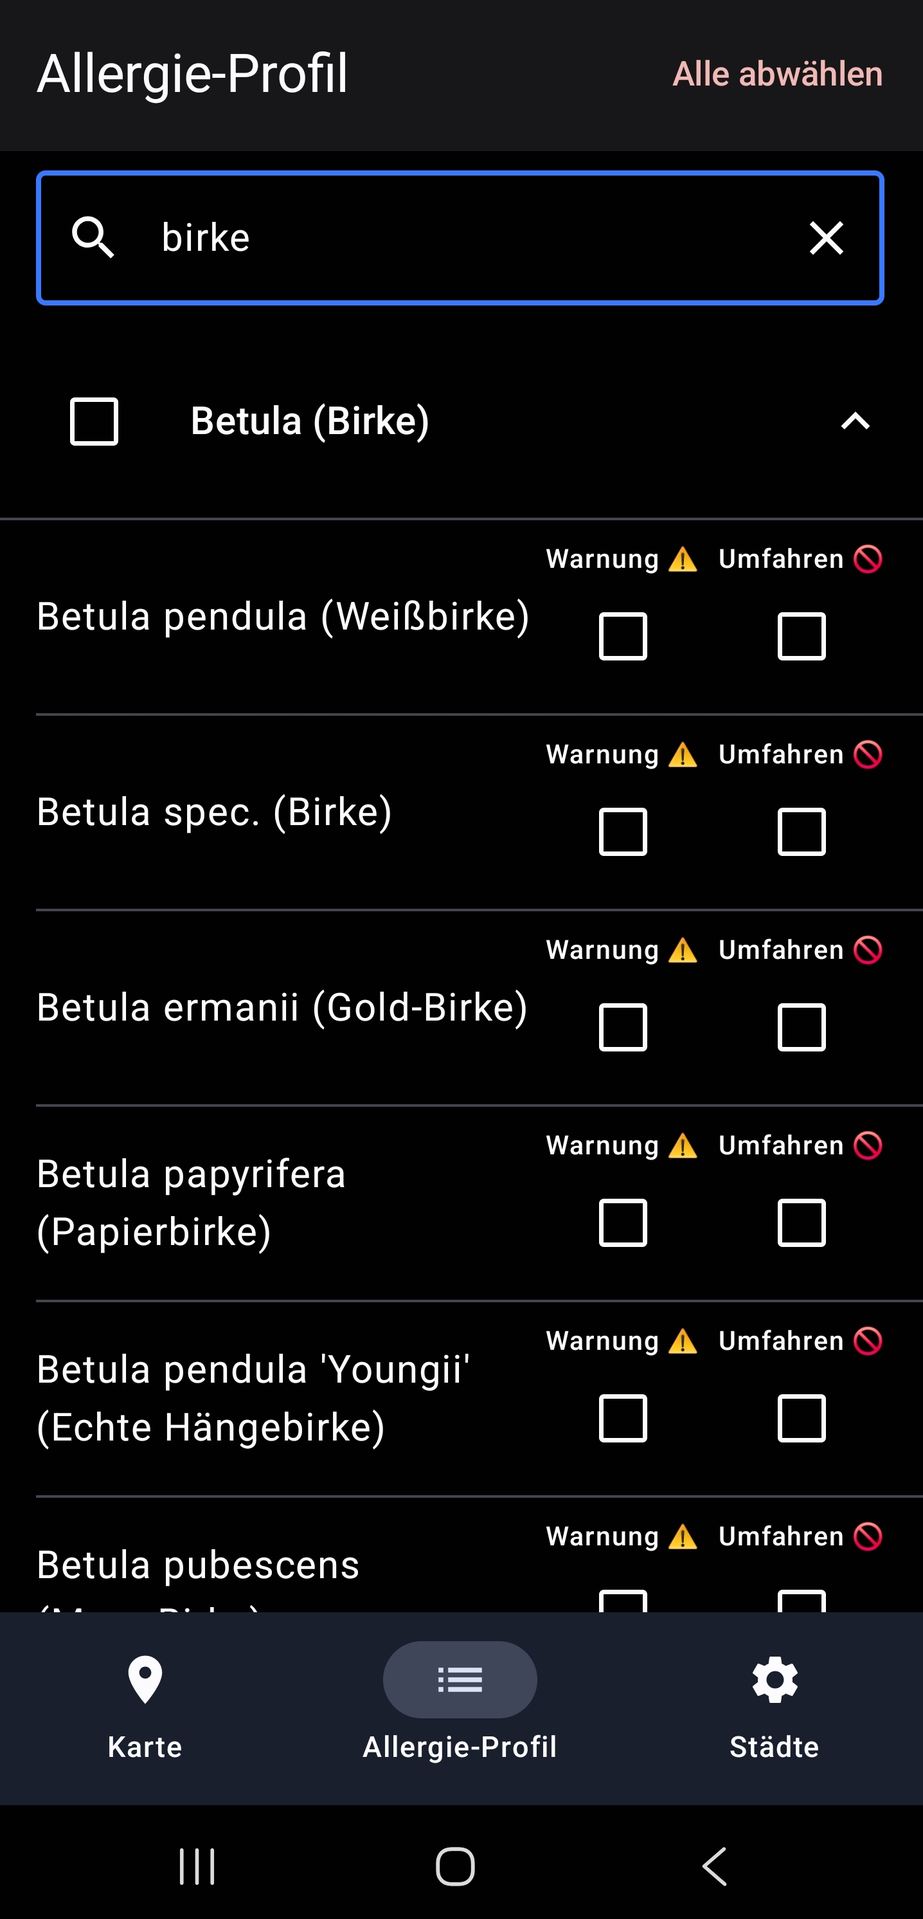
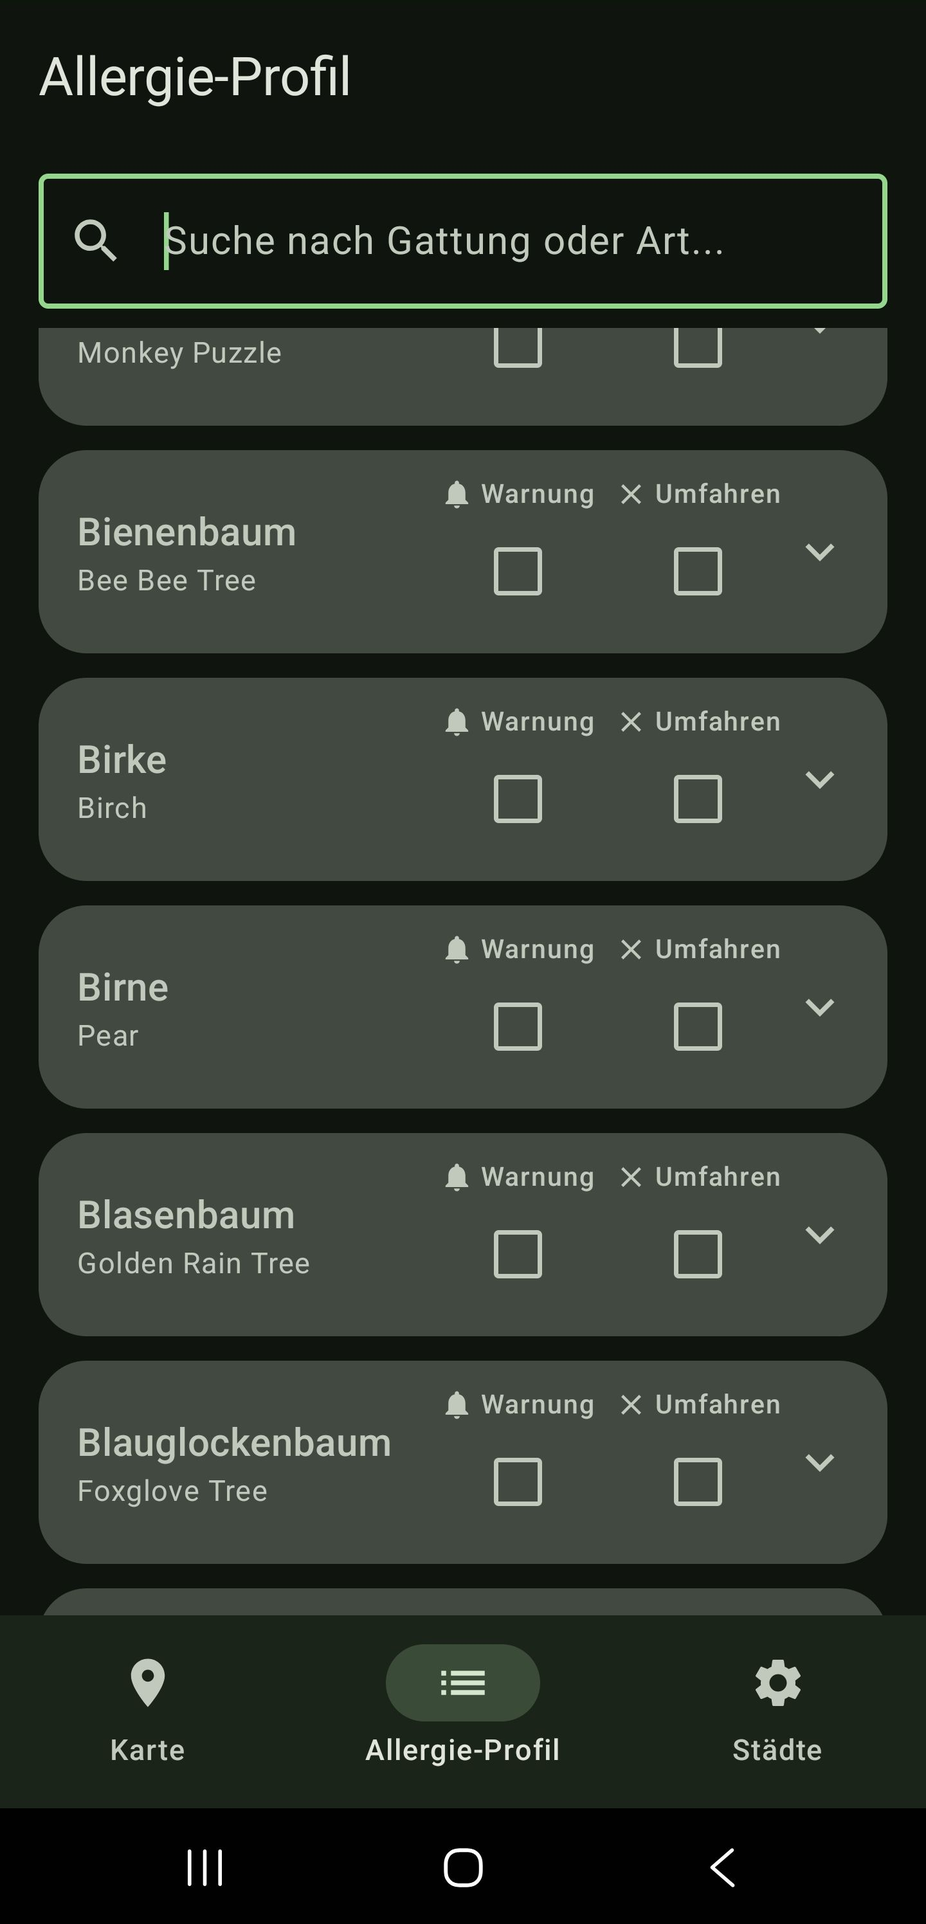
Improvements to the user interface. Updating the documentation.

diff --git a/app/src/main/java/at/mafue/baumradar/app/ui/MapArScreen.kt b/app/src/main/java/at/mafue/baumradar/app/ui/MapArScreen.kt
@@ -21,6 +21,11 @@ import androidx.compose.foundation.layout.navigationBarsPadding
 import androidx.compose.foundation.horizontalScroll
 import androidx.compose.foundation.rememberScrollState
 import androidx.compose.foundation.shape.RoundedCornerShape
+import androidx.compose.animation.AnimatedVisibility
+import androidx.compose.animation.fadeIn
+import androidx.compose.animation.fadeOut
+import androidx.compose.animation.expandHorizontally
+import androidx.compose.animation.shrinkHorizontally
 import androidx.compose.material.icons.Icons
 import androidx.compose.material.icons.filled.Search
 import androidx.compose.material.icons.filled.Place
@@ -53,7 +58,6 @@ import androidx.lifecycle.ViewModel
 import androidx.lifecycle.ViewModelProvider
 import androidx.lifecycle.viewmodel.compose.viewModel
 import kotlinx.coroutines.delay
-import kotlinx.coroutines.launch
 import org.osmdroid.config.Configuration
 import org.osmdroid.events.MapEventsReceiver
 import org.osmdroid.util.GeoPoint
@@ -170,8 +174,17 @@ fun MapArScreen() {
 
     val isMapLoading by viewModel.isMapLoading.collectAsState()
     val isExplorationMode by viewModel.isExplorationMode.collectAsState()
-    val snackbarHostState = remember { SnackbarHostState() }
-    val coroutineScope = rememberCoroutineScope()
+    // Kurzer Bestätigungs-Hinweis links neben dem Allergiezonen-Button (statt breiter Snackbar,
+    // die den Button verdeckte). Erscheint ~2,5 s und braucht nur die Breite des Textes.
+    var geofenceHintText by remember { mutableStateOf("") }
+    var geofenceHintVisible by remember { mutableStateOf(false) }
+    var geofenceHintToken by remember { mutableStateOf(0) }
+    LaunchedEffect(geofenceHintToken) {
+        if (geofenceHintToken > 0) {
+            delay(2500)
+            geofenceHintVisible = false
+        }
+    }
     var showRouteSheet by remember { mutableStateOf(false) }
 
     if (permissionGranted) {
@@ -228,17 +241,36 @@ fun MapArScreen() {
                         viewModel.triggerRecenter()
                     }
 
-                    // Allergiezonen ein-/ausblenden (grün = aktiv)
+                    // Allergiezonen ein-/ausblenden (grün = aktiv). Die Bestätigung erscheint als
+                    // kompakter Hinweis links neben dem Button und verdeckt ihn nicht.
                     val showAllGeofences by viewModel.showAllGeofences.collectAsState()
-                    MapToolFab(Icons.Default.Warning, "Allergiezonen anzeigen", active = showAllGeofences) {
-                        val newState = !showAllGeofences
-                        viewModel.showAllGeofences.value = newState
-                        coroutineScope.launch {
-                            snackbarHostState.currentSnackbarData?.dismiss()
-                            snackbarHostState.showSnackbar(
-                                message = if (newState) "Allergiezonen eingeblendet" else "Allergiezonen ausgeblendet",
-                                duration = SnackbarDuration.Short
-                            )
+                    Row(verticalAlignment = Alignment.CenterVertically) {
+                        AnimatedVisibility(
+                            visible = geofenceHintVisible,
+                            enter = fadeIn() + expandHorizontally(expandFrom = Alignment.End),
+                            exit = fadeOut() + shrinkHorizontally(shrinkTowards = Alignment.End)
+                        ) {
+                            Surface(
+                                shape = RoundedCornerShape(50),
+                                color = MaterialTheme.colorScheme.inverseSurface,
+                                contentColor = MaterialTheme.colorScheme.inverseOnSurface,
+                                shadowElevation = 4.dp,
+                                modifier = Modifier.padding(end = 12.dp)
+                            ) {
+                                Text(
+                                    text = geofenceHintText,
+                                    style = MaterialTheme.typography.labelMedium,
+                                    maxLines = 1,
+                                    modifier = Modifier.padding(horizontal = 14.dp, vertical = 8.dp)
+                                )
+                            }
+                        }
+                        MapToolFab(Icons.Default.Warning, "Allergiezonen anzeigen", active = showAllGeofences) {
+                            val newState = !showAllGeofences
+                            viewModel.showAllGeofences.value = newState
+                            geofenceHintText = if (newState) "Allergiezonen eingeblendet" else "Allergiezonen ausgeblendet"
+                            geofenceHintVisible = true
+                            geofenceHintToken++
                         }
                     }
 
@@ -498,14 +530,6 @@ fun MapArScreen() {
                     RoutePlanningSheetContent(viewModel) { showRouteSheet = false }
                 }
             }
-
-            // Snackbar für Feedback-Meldungen (z.B. Geofence-Toggle)
-            SnackbarHost(
-                hostState = snackbarHostState,
-                modifier = Modifier
-                    .align(Alignment.BottomCenter)
-                    .padding(bottom = 100.dp)
-            )
         }
     } else {
         Box(modifier = Modifier.fillMaxSize(), contentAlignment = Alignment.Center) {

diff --git a/app/src/main/java/at/mafue/baumradar/app/ui/ProfileScreen.kt b/app/src/main/java/at/mafue/baumradar/app/ui/ProfileScreen.kt
@@ -29,15 +29,14 @@ import java.util.Locale
 /**
  * Allergieprofil-Bildschirm mit erweiterbarer Baumgattungs-Liste.
  *
- * Zeigt alle verfügbaren Baumgattungen gruppiert an. Jede Gattung kann aufgeklappt
- * werden, um einzelne Arten auszuwählen. Pro Art gibt es zwei Optionen:
- * - **Warnung** (⚠): Aktiviert Geofence-Benachrichtigungen bei Annäherung
- * - **Umfahren** (🚫): Gattung wird beim Routing gemieden
+ * Zeigt alle verfügbaren Baumgattungen gruppiert an. Die Auswahl erfolgt
+ * **gattungsweit** (passend zu den nach Gattung geclusterten Geofences); pro
+ * Gattung gibt es zwei Schalter:
+ * - **Warnung** (Glocken-Icon): Aktiviert Geofence-Benachrichtigungen bei Annäherung
+ * - **Umfahren** (X-Icon): Gattung wird beim Routing gemieden
  *
- * Die Gattungs-Überschrift nutzt einen [TriStateCheckbox]:
- * - Alle Arten ausgewählt → On
- * - Einige Arten ausgewählt → Indeterminate
- * - Keine Art ausgewählt → Off
+ * Jede Gattung lässt sich aufklappen, um ihre Arten mit botanischem Namen
+ * anzuzeigen (rein informativ – die Warnung/Umfahren-Auswahl bleibt gattungsweit).
  */
 @OptIn(ExperimentalMaterial3Api::class)
 @Composable

diff --git a/app/src/main/java/at/mafue/baumradar/app/ui/CitySelectionScreen.kt b/app/src/main/java/at/mafue/baumradar/app/ui/CitySelectionScreen.kt
@@ -76,8 +76,13 @@ fun CitySelectionScreen(
                         )
                     }
 
-                    // Katalog nach Ländern gruppieren für die Anzeige in aufklappbaren Sektionen
+                    // Katalog nach Ländern gruppieren. Die Länder-Reihenfolge folgt bewusst dem
+                    // ersten Auftreten in catalog.json (Aufnahme-Historie) – groupBy behält die
+                    // Schlüssel-Reihenfolge. Die Städte je Land werden alphabetisch aufsteigend
+                    // sortiert (deutsche Collation, damit Umlaute korrekt einsortiert werden).
+                    val cityCollator = remember { java.text.Collator.getInstance(java.util.Locale.GERMAN) }
                     val groupedCatalog = catalog.groupBy { it.country }
+                        .mapValues { (_, cities) -> cities.sortedWith(compareBy(cityCollator) { it.name }) }
                     val expandedCountries = remember { mutableStateListOf<String>() }
 
                     // Beim ersten Laden alle Länder-Sektionen aufklappen

diff --git a/README_en.md b/README_en.md
@@ -66,14 +66,14 @@
 
 ### 🌿 Allergy Profile & Warning Zones
 In your personal allergy profile, you select the tree genera you are allergic to (e.g., Birch, Hazel, Ash). The app distinguishes between two levels:
-- **"Avoid 🚫"**: These trees are considered during routing – the app tries to calculate routes that avoid these tree genera as much as possible.
-- **"Warning ⚠"**: For these trees, Baumradar registers background geofence zones with Android. You receive a **push notification directly on your lock screen** when you approach such a tree – even when the app is closed. No permanently running background app is required; Android monitors the zones energy-efficiently via Play Services.
+- **"Avoid ✕"**: These trees are considered during routing – the app tries to calculate routes that avoid these tree genera as much as possible.
+- **"Warning 🔔"**: For these trees, Baumradar registers background geofence zones with Android. You receive a **push notification directly on your lock screen** when you approach such a tree – even when the app is closed. No permanently running background app is required; Android monitors the zones energy-efficiently via Play Services.
 
 ### 🔍 Exploration Mode
 Standing in front of a tree and wondering: *"What kind of tree is that?"* Activate the exploration mode (the magnifying glass icon at the bottom right of the map) and Baumradar shows you **all trees within a 100-meter radius** – regardless of your allergy profile. Each marker on the map displays the common name and, if known, the specific species.
 
 ### 🧭 AR Directional Display (Compass Arrows)
-On the map screen, Baumradar displays transparent arrows and distance indicators. These show you the real-time direction and distance to the closest marked trees (up to the nearest 15). The arrows respond to your compass (gyroscope) and rotate with you, so you always know which direction a tree is in – even if it's outside the visible map area.
+On the map screen, Baumradar displays transparent arrows and distance indicators. These show you the real-time direction and distance to the closest marked trees (up to the nearest 15). The arrows respond to your compass (gyroscope) and rotate with you – one for every nearby tree, whether it's to your side, behind you, or directly ahead. That way the direction stays visible even while you're walking straight toward a marked tree.
 
 ### 🗺 Allergy-Free Routing
 Open the "Plan Route" card at the top of the screen. Enter a start and destination address and choose your mode of transport (Walking, Cycling, Driving). Baumradar:
@@ -127,16 +127,17 @@ On the very first launch, a **City Wizard** appears. Here you toggle the cities 
 ### Main Screen (Tabs)
 The app has a tab bar at the bottom with three sections:
 
-1. **Map (🗺):** The main area. Here you see the OpenStreetMap map with your location (blue dot), marked allergy trees (yellow pins), geofence zones (red circles), and any calculated routes (blue polyline). At the bottom right there are three buttons:
+1. **Map (🗺):** The main area. Here you see the OpenStreetMap map with your location (blue dot), marked allergy trees (yellow pins, bundled into green count bubbles at low zoom), geofence zones (red circles), and any calculated routes (blue polyline). At the bottom right there are four buttons:
+   - 🧭 **Route planning**: Opens a bottom sheet to enter start/destination and travel mode.
    - 📍 **Center**: Jumps back to your current location.
    - ⚠ **Hotspots**: Shows all geofence zones for your selected allergens within a 2 km radius.
    - 🔍 **Exploration Mode**: Shows all trees (of any species) within 100 m.
 
-2. **Allergy Profile (👤):** Here you manage your allergies. You see a searchable list grouped by genus of all tree species in the database. For each species there are two checkboxes:
-   - **"Warning ⚠"**: Activates background geofence notifications for this species.
-   - **"Avoid 🚫"**: Considers this species during allergy-free routing.
+2. **Allergy Profile (👤):** Here you manage your allergies. You see a searchable list grouped by genus. Each **genus** has two toggles:
+   - **"Warning 🔔"**: Activates background geofence notifications for the genus.
+   - **"Avoid ✕"**: Considers the genus during allergy-free routing.
    
-   The tri-state checkbox on the group header (e.g., "Ahorn / Maple") lets you select or deselect an entire genus with one click.
+   Selection is genus-wide (matching the genus-clustered geofences). Expanding a genus reveals its species with botanical names – for reference only.
 
 3. **Cities (🏙):** Here you manage downloaded cities. You can download additional cities, delete existing ones, or tap the location icon to jump directly to a city's map position.
 

diff --git a/README.md b/README.md
@@ -68,14 +68,14 @@
 
 ### 🌿 Allergie-Profil & Warn-Zonen
 Im persönlichen Allergie-Profil lassen sich gezielt die Baumgattungen auswählen, die allergische Reaktionen auslösen (z. B. Birke, Hasel, Esche). Die App unterscheidet dabei zwischen zwei Stufen:
-- **„Umfahren 🚫"**: Diese Bäume werden beim Routing berücksichtigt – die App berechnet Routen, die diese Baumgattungen möglichst meiden.
-- **„Warnung ⚠"**: Für diese Bäume registriert Baumradar im Hintergrund Geofence-Zonen bei Android. Eine **Push-Benachrichtigung direkt auf den Sperrbildschirm** erscheint, sobald sich der Standort einem solchen Baum nähert – auch bei geschlossener App. Dafür ist keine permanent laufende Hintergrund-App nötig, Android überwacht die Zonen energieeffizient über die Play Services.
+- **„Umfahren ✕"**: Diese Bäume werden beim Routing berücksichtigt – die App berechnet Routen, die diese Baumgattungen möglichst meiden.
+- **„Warnung 🔔"**: Für diese Bäume registriert Baumradar im Hintergrund Geofence-Zonen bei Android. Eine **Push-Benachrichtigung direkt auf den Sperrbildschirm** erscheint, sobald sich der Standort einem solchen Baum nähert – auch bei geschlossener App. Dafür ist keine permanent laufende Hintergrund-App nötig, Android überwacht die Zonen energieeffizient über die Play Services.
 
 ### 🔍 Erkundungsmodus
 *„Was ist das da für ein Baum?"* – Der Erkundungsmodus (Lupen-Icon unten rechts) zeigt **alle Bäume im Umkreis von 100 Metern** an, unabhängig vom Allergie-Profil. Jeder Marker auf der Karte zeigt den deutschen Gattungsnamen und, falls bekannt, die spezifische Art.
 
 ### 🧭 AR-Richtungsanzeige (Kompass-Pfeile)
-Auf dem Karten-Bildschirm blendet Baumradar transparente Pfeile und Entfernungsangaben ein. Diese zeigen in Echtzeit die Richtung und Distanz zu den nächstgelegenen markierten Bäumen (die nächsten 15). Die Pfeile reagieren auf den Kompass (Gyroskop) und drehen sich mit, sodass die Himmelsrichtung eines Baumes immer sichtbar ist – auch außerhalb des Kartenausschnitts.
+Auf dem Karten-Bildschirm blendet Baumradar transparente Pfeile und Entfernungsangaben ein. Diese zeigen in Echtzeit die Richtung und Distanz zu den nächstgelegenen markierten Bäumen (die nächsten 15). Die Pfeile reagieren auf den Kompass (Gyroskop) und drehen sich mit – für jeden nahen Baum, egal ob er seitlich, hinter dir oder direkt vor dir liegt. So bleibt die Richtung auch dann sichtbar, wenn du gerade auf einen markierten Baum zugehst.
 
 ### 🗺 Allergiefreies Routing
 Baumradar berechnet Routen, die Allergen-Hotspots aktiv umfahren:
@@ -137,8 +137,8 @@ Die App hat am unteren Rand eine Tab-Leiste mit drei Bereichen:
 
 | Tab | Funktion |
 |-----|----------|
-| **🗺 Karte** | OpenStreetMap-Karte mit Standort, Allergie-Bäumen (gelbe Pins), Geofence-Zonen (rote Kreise), berechneten Routen. Buttons: 📍 Zentrieren, ⚠ Hotspots einblenden, 🔍 Erkundungsmodus |
-| **👤 Allergie-Profil** | Durchsuchbare, nach Gattung gruppierte Liste aller Baumarten. Für jede Art: „Warnung ⚠" (Hintergrund-Benachrichtigung) und/oder „Umfahren 🚫" (Routing). Tri-State-Checkbox am Gruppen-Header für Massenauswahl. |
+| **🗺 Karte** | OpenStreetMap-Karte mit Standort, Allergie-Bäumen (gelbe Pins, bei kleinem Zoom zu grünen Zähl-Bubbles gebündelt), Geofence-Zonen (rote Kreise), berechneten Routen. Buttons unten rechts: 🧭 Route planen (öffnet ein Eingabe-Sheet), 📍 Zentrieren, ⚠ Hotspots einblenden, 🔍 Erkundungsmodus |
+| **👤 Allergie-Profil** | Durchsuchbare, nach Gattung gruppierte Baumliste. Pro **Gattung** zwei Schalter: „Warnung 🔔" (Hintergrund-Benachrichtigung) und/oder „Umfahren ✕" (Routing). Aufklappen zeigt die Arten mit botanischem Namen; die Auswahl gilt gattungsweit. |
 | **🏙 Städte** | Heruntergeladene Städte verwalten: weitere laden, bestehende löschen, zur Kartenposition springen. |
 
 ### Langes Drücken auf die Karte

diff --git a/docs/app_architecture.md b/docs/app_architecture.md
@@ -27,10 +27,10 @@ at.mafue.baumradar.app
 │   ├── NominatimGeocoder.kt     # Adressauflösung via OpenStreetMap Nominatim
 │   └── GpxGenerator.kt         # GPX-Export & Share-Intent
 ├── ui/
-│   ├── MapArScreen.kt           # Karten-Composable (OSMDroid), AR-Pfeile, Routing-UI, Long-Press-Dialog
+│   ├── MapArScreen.kt           # Karten-Composable (OSMDroid), AR-Pfeile, Routing-Bottom-Sheet, Long-Press-Dialog
 │   ├── MapViewModel.kt          # Zustand: Location, Trees, Routes, Geofences, Erkundungsmodus
 │   ├── ArNavigationManager.kt   # GPS-Tracking, Kompass (Magnetometer), Haversine, Bearing
-│   ├── ProfileScreen.kt         # Allergie-Profil UI (durchsuchbare Baumliste mit Tri-State)
+│   ├── ProfileScreen.kt         # Allergie-Profil UI (nach Gattung gruppiert, gattungsweite Warnung/Umfahren-Auswahl)
 │   ├── ProfileViewModel.kt     # Daten-Sanitization, Gattungs-Gruppierung, Geofence-Updates
 │   ├── CitySelectionScreen.kt  # Stadt-Wizard und Stadt-Verwaltung
 │   ├── CitySelectionViewModel.kt # Katalog-Laden, Download-Steuerung
@@ -77,6 +77,7 @@ Die Karte basiert auf **OSMDroid** (OpenStreetMap), eingebettet in Compose via `
   - Im **Erkundungsmodus**: Zeigt *alle* Bäume im Umkreis von 100 m, unabhängig vom Allergie-Profil.
 - **`effectiveLocation`**: Kombiniert den echten GPS-Standort mit einem optionalen `virtualLocation` (für Tests per Long-Press).
 - **Bounding-Box-Query**: Die Room-Datenbank wird via `getTreesInBoundingBox()` effizient abgefragt – danach erfolgt ein Haversine-Feinfilter in Kotlin.
+- **Marker-Clustering (Karte)**: Dicht beieinanderliegende Bäume werden zoom-abhängig zu grünen Zähl-Bubbles gebündelt (`addTreeMarkers`); ein Tap zoomt hinein und löst das Cluster auf. Erst bei höherem Zoom erscheinen die einzelnen gelben Pins.
 
 ---
 
@@ -84,7 +85,7 @@ Die Karte basiert auf **OSMDroid** (OpenStreetMap), eingebettet in Compose via `
 
 Die Klasse `ArNavigationManager` nutzt den Android `SensorManager` (Magnetometer + Accelerometer) für die Kompassrichtung. `ArOverlay` (ein `Canvas`-Composable) zeichnet:
 
-- **Rotierte Dreiecks-Pfeile** für jede der 15 nächsten Bäume, die sich außerhalb des aktuellen Field-of-View (60° gesamt) befinden.
+- **Rotierte Dreiecks-Pfeile** für jede der 15 nächsten Bäume – auch für (nahezu) geradeaus liegende (12-Uhr-Position). Jeder Pfeil zeigt in Richtung seines Baumes, sodass die Richtung auch beim direkten Zugehen sichtbar bleibt.
 - Jeder Pfeil zeigt die Entfernung in Metern an.
 - Die Berechnung nutzt `calculateBearing()` (Bearing zwischen zwei Geopunkten) und `calculateDistance()` (Haversine-Formel).
 
@@ -93,6 +94,8 @@ Die Klasse `ArNavigationManager` nutzt den Android `SensorManager` (Magnetometer
 ## 4. Routing & Kollisionserkennung
 
 ![Routing & Kollision Sequenz](architecture/04_routing_collision.png)
+
+Die Eingabe (Start-/Zieladresse, Fortbewegungsart) erfolgt über ein **`ModalBottomSheet`**, das über den „Route planen"-FAB (Wegbeschreibungs-Symbol, rechts unten) geöffnet wird – so bleibt der obere Kartenbereich für die AR-Pfeile frei.
 
 Der Routing-Ablauf in `MapViewModel.calculateGeocodedRoute()`:
 

diff --git a/docs/app_architecture_en.md b/docs/app_architecture_en.md
@@ -27,10 +27,10 @@ at.mafue.baumradar.app
 │   ├── NominatimGeocoder.kt     # Address resolution via OpenStreetMap Nominatim
 │   └── GpxGenerator.kt         # GPX export & Share intent
 ├── ui/
-│   ├── MapArScreen.kt           # Map Composable (OSMDroid), AR arrows, Routing UI, Long-Press dialog
+│   ├── MapArScreen.kt           # Map Composable (OSMDroid), AR arrows, Routing bottom sheet, Long-Press dialog
 │   ├── MapViewModel.kt          # State: Location, Trees, Routes, Geofences, Exploration mode
 │   ├── ArNavigationManager.kt   # GPS tracking, Compass (Magnetometer), Haversine, Bearing
-│   ├── ProfileScreen.kt         # Allergy profile UI (searchable tree list with tri-state)
+│   ├── ProfileScreen.kt         # Allergy profile UI (grouped by genus, genus-wide Warning/Avoid selection)
 │   ├── ProfileViewModel.kt     # Data sanitization, genus grouping, geofence updates
 │   ├── CitySelectionScreen.kt  # City wizard and city management
 │   ├── CitySelectionViewModel.kt # Catalog loading, download control
@@ -77,6 +77,7 @@ The map is based on **OSMDroid** (OpenStreetMap), embedded in Compose via `Andro
   - In **Exploration mode**: Shows *all* trees within a 100 m radius, regardless of allergy profile.
 - **`effectiveLocation`**: Combines the real GPS location with an optional `virtualLocation` (for testing via long-press).
 - **Bounding-box query**: The Room database is efficiently queried via `getTreesInBoundingBox()` – followed by a Haversine fine-filter in Kotlin.
+- **Marker clustering (map)**: Trees close together are bundled into green count bubbles depending on zoom level (`addTreeMarkers`); tapping one zooms in and dissolves the cluster. Individual yellow pins only appear at higher zoom.
 
 ---
 
@@ -84,7 +85,7 @@ The map is based on **OSMDroid** (OpenStreetMap), embedded in Compose via `Andro
 
 The class `ArNavigationManager` uses the Android `SensorManager` (Magnetometer + Accelerometer) for compass direction. `ArOverlay` (a `Canvas` Composable) draws:
 
-- **Rotated triangle arrows** for each of the 15 closest trees that are outside the current field-of-view (60° total).
+- **Rotated triangle arrows** for each of the 15 closest trees – including those (almost) straight ahead (12 o'clock). Each arrow points toward its tree, so the direction stays visible even while walking directly toward it.
 - Each arrow displays the distance in meters.
 - Calculations use `calculateBearing()` (bearing between two geopoints) and `calculateDistance()` (Haversine formula).
 
@@ -93,6 +94,8 @@ The class `ArNavigationManager` uses the Android `SensorManager` (Magnetometer +
 ## 4. Routing & Collision Detection
 
 ![Routing & Collision Sequence](architecture/04_routing_collision.png)
+
+Input (start/destination address, travel mode) is entered via a **`ModalBottomSheet`** opened from the "Route planning" FAB (directions icon, bottom right) – this keeps the upper map area clear for the AR arrows.
 
 The routing workflow in `MapViewModel.calculateGeocodedRoute()`:
 
